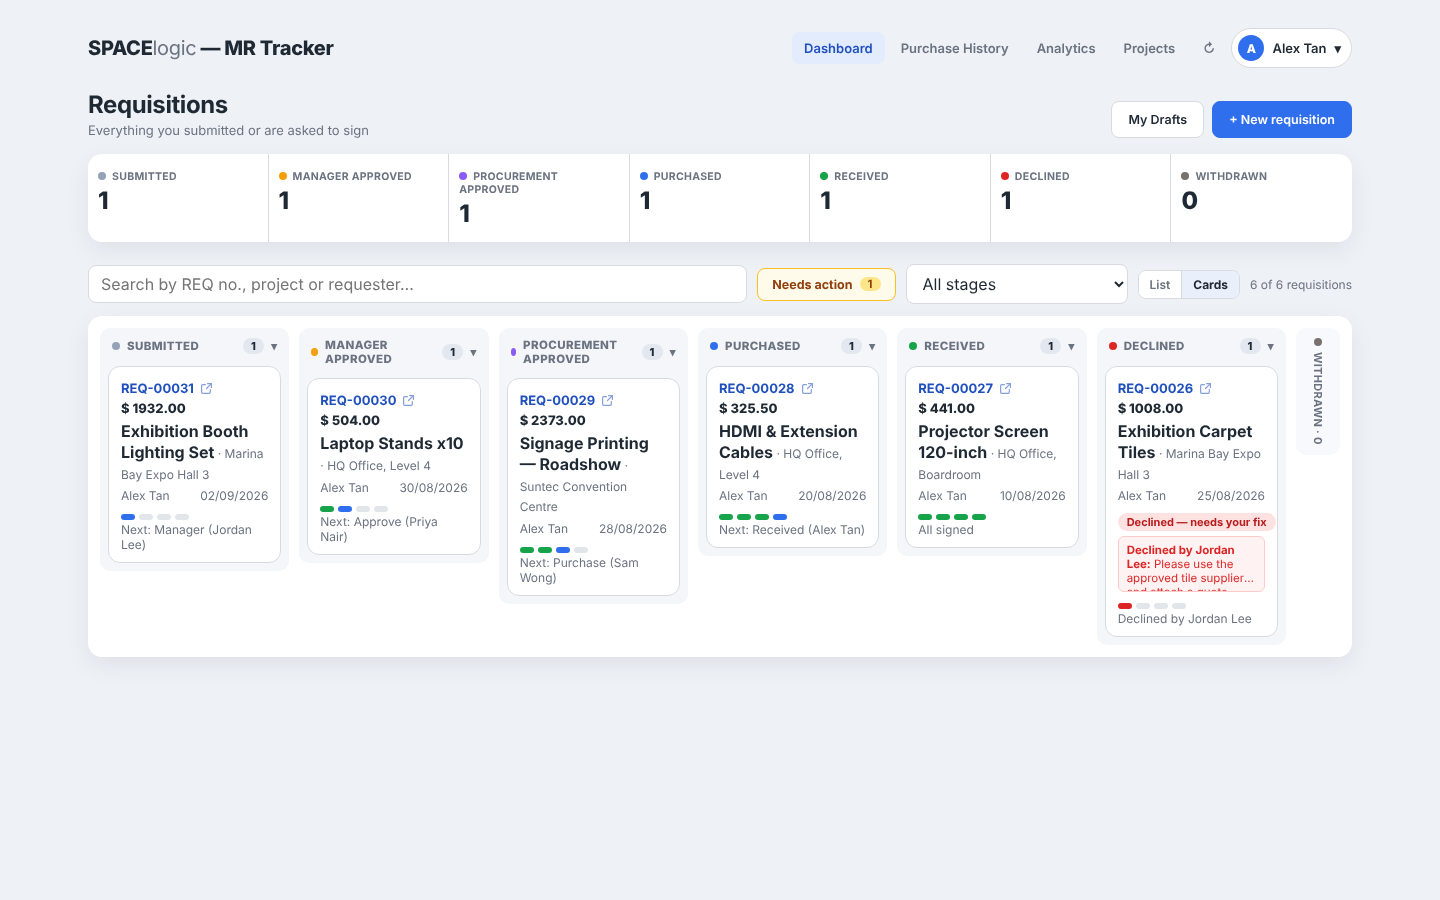
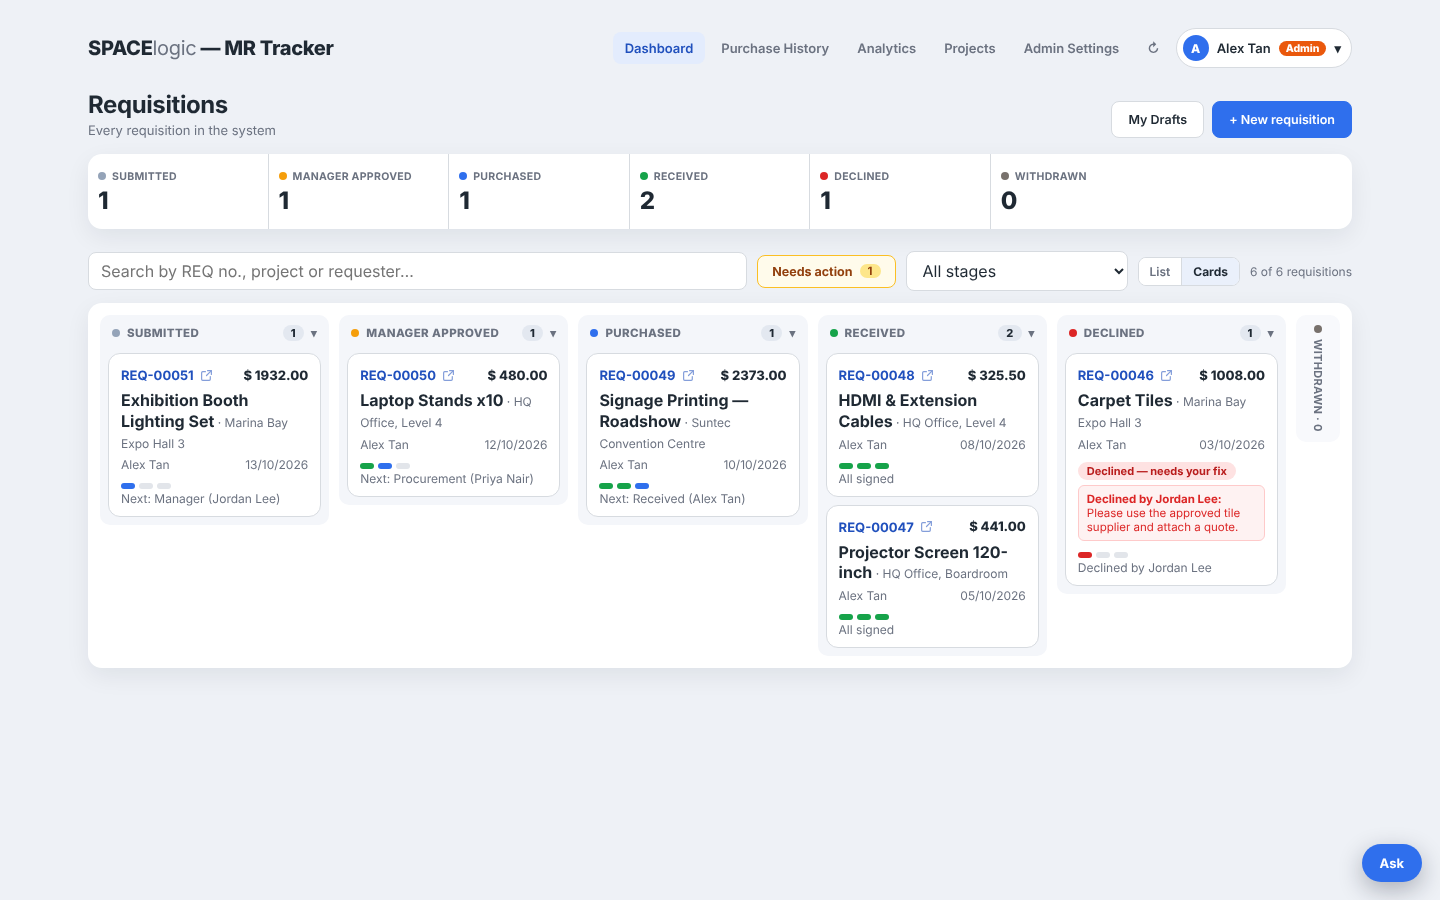
Bring the manual, About page, screenshots and What's new up to date
- manual: 3-step flow, who signs by amount, PO/LOA/supply date, notifications (Telegram/email/device), Settings, roles & access, notification routing, new FAQs
- About page: 3 signatures, notifications and roles
- regenerate the signing, form, dashboard, cards, hover, completed and admin screenshots; add a Settings screenshot
- What's new notice (version 2026.10.15)

Claude-Session: https://claude.ai/code/session_01FARyBiCM3pP2NYTDeieNZv

diff --git a/manual.html b/manual.html
@@ -121,13 +121,16 @@
     <ul>
       <li><a href="#dashboard">Using the dashboard</a></li>
       <li><a href="#analytics">Analytics</a></li>
-      <li><a href="#reminders">Reminder settings</a></li>
+      <li><a href="#limits">Who signs, by amount</a></li>
+      <li><a href="#reminders">Settings &amp; notifications</a></li>
       <li><a href="#export">Exporting &amp; printing</a></li>
       <li><a href="#profile">Your profile &amp; PIN</a></li>
     </ul>
     <h4>Admins</h4>
     <ul>
       <li><a href="#admin">Managing people</a></li>
+      <li><a href="#roles">Roles &amp; access</a></li>
+      <li><a href="#routing">Who gets which notification</a></li>
     </ul>
     <h4>Help</h4>
     <ul>
@@ -193,7 +196,7 @@
     <div class="sec" id="declined">
       <h2>If your requisition is declined</h2>
       <p>It is flagged on your dashboard, and the reason and the person who declined it show right on the row or card. Click it to open the full form, then press <b>Fix &amp; Resubmit in form</b> — this reopens the complete form with everything you already entered, ready to fix.</p>
-      <div class="callout"><b>Good to know:</b> resubmitting restarts the whole approval chain from the Team Manager, even if the decline happened later at Procurement or Purchase. This ensures everyone re-confirms the revised request.</div>
+      <div class="callout"><b>Good to know:</b> resubmitting restarts the whole approval chain from the Team Manager, even if the decline happened later at Procurement. This ensures everyone re-confirms the revised request.</div>
     </div>
 
     <div class="sec" id="withdraw">
@@ -213,12 +216,13 @@
       </ol>
       <p>If a step is already tied to someone's account, only that person (signed in) can sign it.</p>
       <figure><img src="images/manual-esign.png" alt="Signing screen: approve and sign, or decline"><figcaption>The signing screen — draw your signature to approve, or switch to Decline and give a reason</figcaption></figure>
-      <p>After you sign, forward the same link to the next person — it always opens on whoever's turn it is. Signing happens only through the link; the dashboard is for tracking.</p>
+      <p>After you sign, the same link opens on the next person's turn. If you picked a verifier on the form they were notified automatically, and when the manager signs, everyone with the <b>Procurement</b> role is notified (if they turned notifications on). Otherwise just forward the link. Signing happens only through the link; the dashboard is for tracking.</p>
+      <p>If your admin turned on <b>Check appointments when signing</b>, the verification box can only be signed by someone who is signed in and whose appointment covers the amount; others see a message saying who is needed.</p>
     </div>
 
     <div class="sec" id="dashboard">
       <h2>Using the dashboard</h2>
-      <p>The dashboard is where everything lives: your own submissions, anything waiting on your signature, and — if you're an admin — every requisition in the system.</p>
+      <p>The dashboard is where everything lives: your own submissions, anything waiting on your signature, and — if your role allows it (for example Admin or Procurement) — every requisition in the system.</p>
       <figure><img src="images/manual-dashboard.png" alt="The dashboard in List layout"><figcaption>The dashboard (List layout) — every stage, every requisition, at a glance</figcaption></figure>
       <ul>
         <li><b>Stage boxes</b> — show counts by stage, and double as a filter. Click any stage to see just those requisitions.</li>
@@ -248,14 +252,34 @@
 
     <div class="sec" id="analytics">
       <h2>Analytics</h2>
-      <p>Spending, approval speed and price insights. You see your own requisitions; admins see everyone's.</p>
+      <p>Spending, approval speed and price insights. You see your own requisitions; people whose role allows it (for example Admin or Procurement) see everyone's. The page is hidden for roles that do not include it.</p>
+    </div>
+
+    <div class="sec" id="limits">
+      <h2>Who signs, by amount</h2>
+      <p>The total of the requisition decides who must <b>verify</b> it (the first signature). The form shows this as soon as you add items, and the <b>Approval rules</b> button opens the full table:</p>
+      <ul class="steps" style="list-style:disc;padding-left:20px">
+        <li>up to <b>$300</b> — Section Manager (or above)</li>
+        <li>up to <b>$500</b> — Team Manager (or above); for the ID team, above $500 needs Top Management until a Division Head is appointed</li>
+        <li>up to <b>$1,000</b> — Division Head (or above)</li>
+        <li>above <b>$1,000</b> — Top Management</li>
+      </ul>
+      <p>Orders of <b>$50,000 and above</b> also need the <b>vendor quotation reference</b> and the <b>PO number</b>; from <b>$150,000</b> an <b>LOA number</b> as well (unless it is supply of goods only, such as furniture or lighting). The form will not submit without them.</p>
+      <p>Procurement then approves <i>and</i> buys, and the requester signs <b>Received by</b> when the items arrive. The <b>supply date</b> should be at least 3 working days after you submit — the form warns you if it is sooner, and you get a reminder when the supply date arrives and nothing is received.</p>
     </div>
 
     <div class="sec" id="reminders">
-      <h2>Reminder settings</h2>
+      <h2>Settings &amp; notifications</h2>
       <p>Click your name → <b>Settings</b>. Everything you can change lives there, in three tabs: <b>Account</b> (profile, saved signature, PIN), <b>Notifications</b> and <b>Reminders</b>.</p>
       <p><b>Reminders:</b> set your own overdue limit for each stage, in hours or days. If one of your own submissions waits longer, it shows as overdue on your dashboard and in the assistant. Switch a stage off to stop checking it.</p>
       <p><b>Notifications:</b> get a message when something needs you. Press <b>Connect</b> next to Telegram, then <b>Start</b> in Telegram; switch on <b>Email</b> to get the same messages in your inbox; and/or switch on <b>This device</b> for a pop-up alert on this phone or computer (on iPhone, first use Share → Add to Home Screen and open the app from there). Then choose what to be told about: needs my action, progress on my requests, declined, or overdue reminders. <b>Send me a test</b> checks it works. If you have never set this up, you are offered it after you send out a form.</p>
+      <figure><img src="images/manual-settings.png" alt="Settings, Notifications tab"><figcaption>Settings → Notifications — choose where and what</figcaption></figure>
+    </div>
+
+    <div class="sec" id="routing">
+      <h2>Who gets which notification (admins)</h2>
+      <p>In <b>Admin Settings → Notifications — who gets what</b>, each event has an on/off switch, tick boxes for who is told (the requester, the person picked as verifier, the next signer if named, <b>Procurement</b>, whoever bought it, all admins) and an <b>Also send to</b> list for specific people. The events are: request sent for verification · manager signed · procurement signed · items received · declined · a stage is overdue · supply date reached.</p>
+      <p><b>Procurement</b> means everyone who has the Procurement role. To hand the job to someone else, give them the role (Roles button on their name) and remove it from the previous person. Each person still chooses their own channels in Settings, so remind new contacts to switch Telegram, Email or device alerts on.</p>
     </div>
 
     <div class="sec" id="roles">
@@ -281,9 +305,10 @@
       <ul>
         <li><b>Add Person</b> — pre-create an account for someone directly, without waiting for them to sign up themselves.</li>
         <li><b>Delete</b> — remove an account. Their name stays attached to any past requisitions; only the login itself is removed.</li>
-        <li><b>Make/Remove admin</b> — grant or revoke admin access. There must always be at least one admin.</li>
+        <li><b>Roles</b> — give a person roles such as <b>Admin</b> or <b>Procurement</b> (or roles you create); see <a href="#roles">Roles &amp; access</a>. There must always be at least one admin.</li>
+        <li><b>Appointment</b> — Section Manager, Team Manager, Division Head or Top Management. It decides which amounts they can verify (see <a href="#limits">Who signs, by amount</a>).</li>
       </ul>
-      <figure><img src="images/manual-admin.png" alt="Admin people directory"><figcaption>The admin panel — every account, in one place</figcaption></figure>
+      <figure><img src="images/manual-admin.png" alt="Admin people directory"><figcaption>The admin panel — every account with its roles and appointment, plus the Roles &amp; access table</figcaption></figure>
       <p>Admins can open any requisition and click <b>Edit in form</b> — the changes are made in the form itself. Next to it is <b>Reject</b>, which sends it back with a reason so the requester can fix and resubmit. <b>Withdraw</b> and <b>Delete</b> are on the other side, kept apart. Reject and withdraw are available until it's purchased. Admins can also manage the <b>Projects</b> list.</p>
     </div>
 
@@ -315,18 +340,22 @@
       <div class="cat">Submitting &amp; tracking</div>
 
       <details>
+        <summary>Who has to sign my requisition?</summary>
+        <p>The total decides who verifies it (Section Manager up to $300, Team Manager up to $500, Division Head up to $1,000, Top Management above). The form shows it as you add items and you can pick the person to send it to. Then Procurement approves and buys, and you sign <b>Received by</b> when the items arrive. The <b>Approval rules</b> button shows the full table.</p>
+      </details>
+      <details>
         <summary>Can I edit a requisition after submitting it?</summary>
         <p>Not directly, unless it gets declined. If you need changes before anyone has approved it, ask that person to decline it with a reason, then use <b>Fix &amp; Resubmit in form</b> to fix and resend it.</p>
       </details>
 
       <details>
         <summary>What happens when a requisition is declined?</summary>
-        <p>It's flagged on your dashboard with the reason. Open it, click <b>Fix &amp; Resubmit in form</b>, fix what was flagged, and resubmit. This restarts the entire approval chain from the Team Manager — even if it was declined later at Procurement or Purchase — so everyone re-confirms the revised request.</p>
+        <p>It's flagged on your dashboard with the reason. Open it, click <b>Fix &amp; Resubmit in form</b>, fix what was flagged, and resubmit. This restarts the entire approval chain from the Team Manager — even if it was declined later at Procurement — so everyone re-confirms the revised request.</p>
       </details>
 
       <details>
         <summary>Can I withdraw a requisition after submitting it?</summary>
-        <p>Yes, any time before it's been purchased — at Submitted, Manager Approved, or Procurement Approved stages, or if it was declined. Open it from your dashboard and click <b>Withdraw</b>. The original requester (or an admin) can do this. Once it reaches the <b>Purchased</b> stage, withdrawal is no longer available.</p>
+        <p>Yes, any time before it's been purchased — at Submitted or Manager Approved (before Procurement has bought it), or if it was declined. Open it from your dashboard and click <b>Withdraw</b>. The original requester (or an admin) can do this. Once it reaches the <b>Purchased</b> stage, withdrawal is no longer available.</p>
       </details>
 
       <details>
@@ -434,25 +463,33 @@
       <div class="cat">Notifications</div>
 
       <details>
-        <summary>Why didn't I receive an email notification?</summary>
-        <p>A few possibilities: you don't have an email saved on your profile yet (ask an admin to add one), the email landed in spam, or — for very new systems — a company mail filter is still learning to trust the sending address. Check your spam folder first, and let an admin know if it keeps happening.</p>
+        <summary>Why didn't I receive a notification?</summary>
+        <p>Work down this list: <b>1)</b> in Settings → Notifications, is at least one of <b>Telegram</b>, <b>Email</b> or <b>This device</b> switched on? Nothing is sent until you turn one on (Email is off by default). <b>2)</b> Is that type switched on under “What to tell me”? <b>3)</b> Press <b>Send me a test</b>. <b>4)</b> Ask an admin to check Admin → <i>Notifications — who gets what</i> that you are included for that event. <b>5)</b> For email, check your spam folder. On iPhone, device alerts only work once the site is added to the Home Screen.</p>
       </details>
 
       <details>
-        <summary>Who gets emailed, and when?</summary>
-        <p>Emails are no longer sent automatically. Switch on <b>Email</b> in <b>Settings → Notifications</b> to be emailed when something needs you, moves forward, is declined or is overdue. You can also manually email any sign-off link to someone directly from the copy-link screen.</p>
+        <summary>Who gets notified, and when?</summary>
+        <p>Nothing is sent automatically any more — each person chooses in <b>Settings → Notifications</b> where to be told (Telegram, email, this device) and about what (needs my action, progress on my requests, declined, overdue). Admins decide who each event goes to in Admin → <i>Notifications — who gets what</i>. By default: you are told when you submit and when each step is signed; the verifier you pick is told it is waiting for them; Procurement is told when the manager has signed; you are told if it is declined. You can also manually email any sign-off link from the copy-link screen.</p>
+      </details>
+      <details>
+        <summary>How do I get notifications on my phone?</summary>
+        <p>Two ways, both in Settings → Notifications. <b>Telegram:</b> press Connect, then Open Telegram and press Start — messages arrive in Telegram with an Open button. <b>This device:</b> switch it on and allow notifications; on an iPhone first tap Share → Add to Home Screen and open MR Tracker from there. Use <b>Send me a test</b> to check it works.</p>
+      </details>
+      <details>
+        <summary>Why does the form ask for a PO or vendor quotation?</summary>
+        <p>Orders of $50,000 and above need the vendor quotation reference and PO number, and from $150,000 an LOA number (unless it is supply of goods only). Fill them in where the form shows the yellow box under the total. See <a href="#limits">Who signs, by amount</a>.</p>
       </details>
 
       <div class="cat">Security</div>
 
       <details>
         <summary>Is my data secure? Who can see my requisitions?</summary>
-        <p>You see your own submissions and anything assigned to you for signing. Admins see everything. This is enforced at the database level, not just hidden in the screen — so it can't be bypassed by guessing a link or URL.</p>
+        <p>You see your own submissions and anything assigned to you for signing. Admins — and anyone whose role includes “See everyone's requisitions”, such as Procurement — see everything. This is enforced at the database level, not just hidden in the screen — so it can't be bypassed by guessing a link or URL.</p>
       </details>
 
       <details>
         <summary>How do I become an admin?</summary>
-        <p>An existing admin needs to grant you admin access from <b>Admin Settings</b>. There must always be at least one admin in the system.</p>
+        <p>An existing admin gives you the <b>Admin</b> role in Admin Settings (button <b>Roles</b> on your name). There must always be at least one admin in the system.</p>
       </details>
 
       <details>

diff --git a/about.html b/about.html
@@ -124,7 +124,7 @@
       <a href="manual.html" class="btn btn-ghost">Read the user manual</a>
     </div>
     <div class="hero-stats">
-      <div class="hero-stat"><b>5</b><span>Tracked approval stages</span></div>
+      <div class="hero-stat"><b>3</b><span>Signatures per requisition</span></div>
       <div class="hero-stat"><b>100%</b><span>Actions tied to a verified person</span></div>
       <div class="hero-stat"><b>24/7</b><span>Access from any device</span></div>
     </div>
@@ -158,13 +158,12 @@
 <section class="bg-panel">
   <div class="wrap">
     <div class="section-label">HOW IT WORKS</div>
-    <h2 class="section-title">One chain, five stages, every signature accounted for</h2>
+    <h2 class="section-title">One chain, three signatures, every one accounted for</h2>
     <div class="flow">
       <div class="flow-step"><div class="flow-dot">1</div><p>Submit</p></div>
-      <div class="flow-step"><div class="flow-dot">2</div><p>Manager<br>Approval</p></div>
-      <div class="flow-step"><div class="flow-dot">3</div><p>Procurement<br>Approval</p></div>
-      <div class="flow-step"><div class="flow-dot">4</div><p>Purchase</p></div>
-      <div class="flow-step"><div class="flow-dot">5</div><p>Received</p></div>
+      <div class="flow-step"><div class="flow-dot">2</div><p>Verified by<br>the right manager</p></div>
+      <div class="flow-step"><div class="flow-dot">3</div><p>Procurement<br>approves &amp; buys</p></div>
+      <div class="flow-step"><div class="flow-dot">4</div><p>Received</p></div>
     </div>
   </div>
 </section>
@@ -178,7 +177,7 @@
       <div class="benefit-card"><h3>Faster approvals</h3><p>Sign from any device, anywhere — no chasing signatures around the office.</p></div>
       <div class="benefit-card"><h3>Real accountability</h3><p>Every signature verified by name, PIN, and company email, every time.</p></div>
       <div class="benefit-card"><h3>Live visibility</h3><p>See exactly where every request stands, in real time, on one dashboard.</p></div>
-      <div class="benefit-card"><h3>Automatic notifications</h3><p>Stakeholders are emailed on declines, purchases, and deliveries.</p></div>
+      <div class="benefit-card"><h3>Automatic notifications</h3><p>Get a message on Telegram, by email or as a phone alert when something needs you or moves forward — and choose exactly what you hear about.</p></div>
       <div class="benefit-card"><h3>Paperless &amp; searchable</h3><p>No more lost forms — every requisition stays permanently searchable.</p></div>
     </div>
   </div>
@@ -195,7 +194,7 @@
       </div>
       <div class="security-col">
         <div class="k">Access that matches your role</div>
-        <p>People only see requisitions they're actually involved in. Admins see everything. Access rules are enforced inside the database itself — not just hidden in the screen.</p>
+        <p>People only see requisitions they're actually involved in, unless their role (such as Admin or Procurement) allows more. Admins decide who can see and do what. Access rules are enforced inside the database itself — not just hidden in the screen.</p>
       </div>
     </div>
   </div>

diff --git a/appbar.js b/appbar.js
@@ -161,16 +161,15 @@
     }
   }
   /* ---- one-time "What's new" notice (remembered per browser; bump the id to show a new one) ---- */
-  const VERSION = "2026.10.14";
-  const NOTICE_ID = "upgrade-2026-10f";
+  const VERSION = "2026.10.15";
+  const NOTICE_ID = "upgrade-2026-10g";
   const NOTICE = [
-    ["One simple way to sign", "There is now just one button on the form: Submit for approval. You get one link; each approver opens it, taps their box and either draws a signature or declines with a reason."],
-    ["Sign in with your email", "Use your company email and PIN — just type the first part, @spacelogic.com.sg is added for you. After 5 wrong PINs an account is locked for 15 minutes."],
-    ["Signed in? Sign as yourself", "If you are signed in, signing asks for your PIN and links the signature to your account, so it shows on your Dashboard."],
-    ["Clear result cards", "Submitting, signing, declining, withdrawing and other actions now end with a short card that tells you what happened and what's next."],
-    ["Quick tour", "New here? Your name menu → Quick tour points at each part of the Dashboard."],
-    ["Ask MR Tracker", "The blue Ask button answers questions like “where is REQ-00031?”, “did my screws arrive?” or “which supplier did we use for cable?”."],
-    ["Your profile", "You can change your name in Settings. Your email is your sign-in ID, so an admin changes it if needed."]
+    ["Three signatures", "The form now has three signature boxes: Verified by → Procurement (approves and buys) → Received by. The person who receives the items signs when they arrive."],
+    ["Who has to sign, by amount", "The form shows who must verify your total and lets you pick them; the Approval rules button shows the full table. Orders of $50,000+ ask for the vendor quotation and PO number (LOA from $150,000), and you are warned if the supply date is under 3 working days away."],
+    ["Notifications", "Get messages on Telegram, by email or as a phone alert — and choose what you hear about. Open your name menu → Settings → Notifications."],
+    ["Everything in Settings", "Your profile, PIN, saved signature, notifications and reminder limits are all in one place: name menu → Settings."],
+    ["Roles & access (admins)", "Admins can give people roles (such as Procurement), choose what each role can see, and decide who is notified about each step — all in Admin Settings."],
+    ["Ask MR Tracker", "The blue Ask button now also answers “who must approve $450?”, “where is REQ-00031?” and “any update?”."]
   ];
   function showNotice(force){
     if(!force){ try{ if(localStorage.getItem("sl_notice_seen")===NOTICE_ID) return; }catch(_){} }
